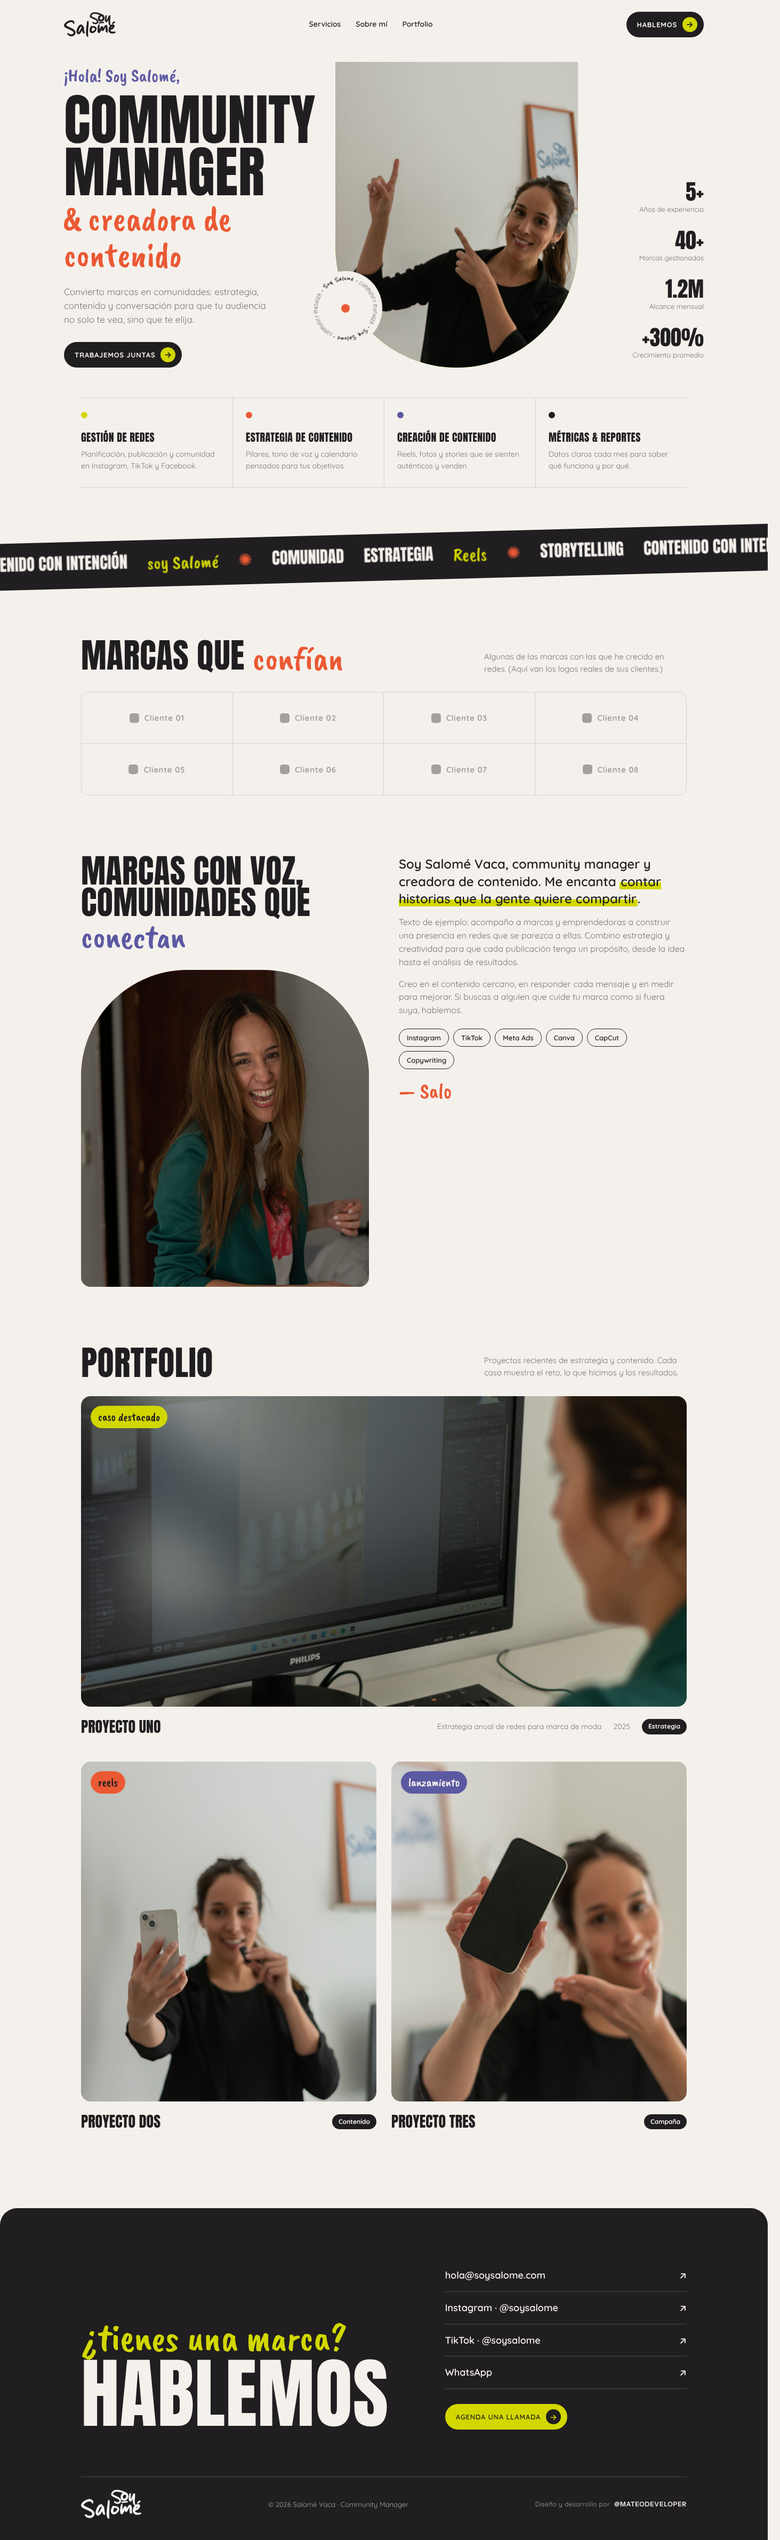
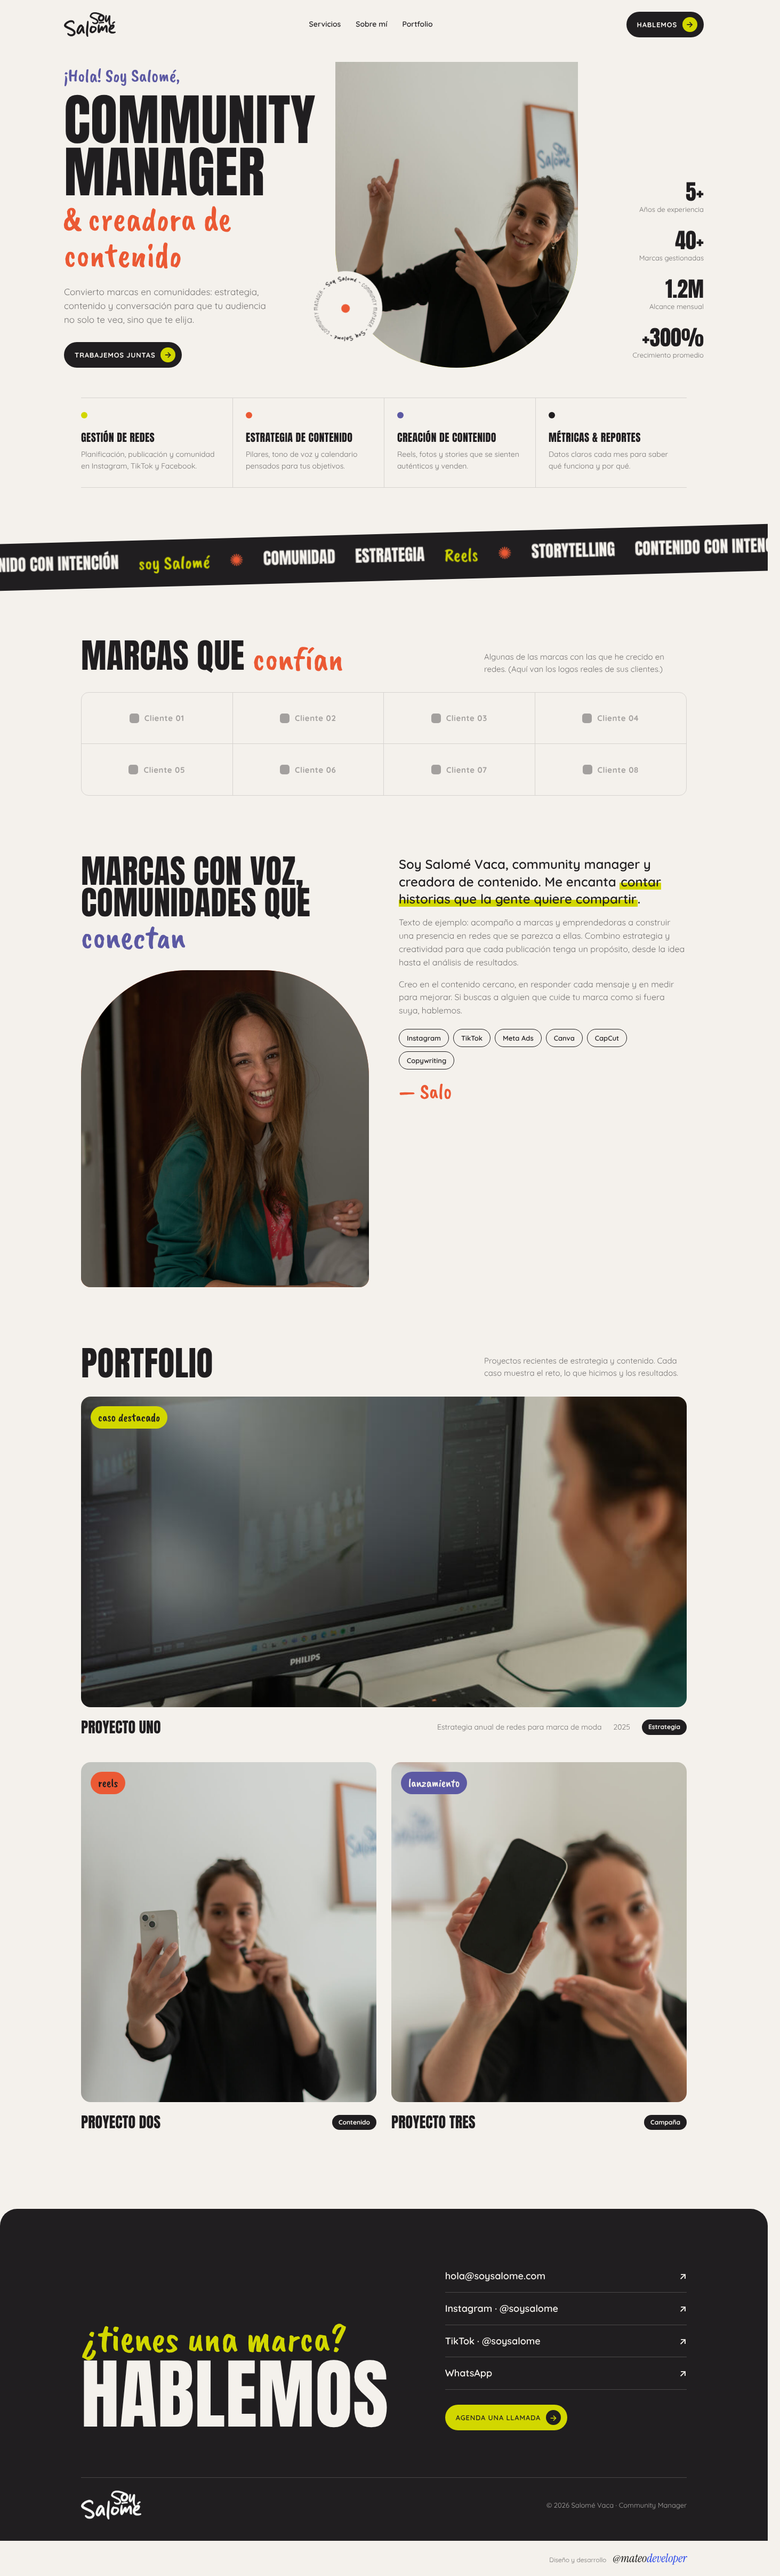
Firma mateodeveloper según manual

Changed region(s): [[0.0, 0.0311, 0.9843, 1.0], [0.8305, 0.0622, 0.892, 0.1554]]

diff --git a/index.html b/index.html
@@ -7,7 +7,7 @@
 <meta name="description" content="Salomé Vaca, community manager y creadora de contenido. Estrategia, contenido y comunidad para marcas.">
 <link rel="preconnect" href="https://fonts.googleapis.com">
 <link rel="preconnect" href="https://fonts.gstatic.com" crossorigin>
-<link href="https://fonts.googleapis.com/css2?family=Anton&family=Caveat+Brush&family=Quicksand:wght@400;500;600;700&family=Instrument+Sans:wght@600&display=swap" rel="stylesheet">
+<link href="https://fonts.googleapis.com/css2?family=Anton&family=Caveat+Brush&family=Quicksand:wght@400;500;600;700&family=Instrument+Serif:ital@1&display=swap" rel="stylesheet">
 <style>
   /* Colores del manual de marca */
   :root{
@@ -126,10 +126,15 @@
   .contacto .pill__dot{background:var(--negro);color:var(--lima)}
   .pie{display:flex;justify-content:space-between;align-items:center;margin-top:88px;padding-top:24px;border-top:1px solid rgba(244,241,236,.2);font-size:13px;color:rgba(244,241,236,.6)}
   .pie img{height:54px;filter:invert(1) brightness(1.1)}
-  .dev{font-size:12px;letter-spacing:.04em;color:rgba(244,241,236,.6);transition:color .2s}
-  /* Firma del desarrollador: versión etiqueta de su manual (Instrument Sans 600, mayúsculas, +6% tracking) para fondo oscuro */
-  .dev b{font-family:'Instrument Sans',system-ui,sans-serif;font-weight:600;text-transform:uppercase;letter-spacing:.06em;color:var(--crema);margin-left:4px}
-  .dev:hover,.dev:hover b{color:var(--lima)}
+  /* Firma del desarrollador (manual @mateodeveloper): Instrument Serif itálica, minúscula,
+     "@mateo" en tinta y "developer" en cobalto, sobre fondo claro, abajo a la derecha.
+     Sin sombras, contornos ni otros colores. */
+  .creditos{background:var(--crema)}
+  .creditos__in{display:flex;justify-content:flex-end;align-items:baseline;gap:12px;padding-top:18px;padding-bottom:18px}
+  .creditos__in>span{font-size:12px;color:var(--suave)}
+  .firma-dev{font-family:'Instrument Serif',Georgia,serif;font-style:italic;font-weight:400;font-size:22px;line-height:1;color:#141413;text-transform:none;letter-spacing:0;padding:4px 0}
+  .firma-dev span{color:#1F3FE9}
+  .firma-dev:hover{text-decoration:underline;text-decoration-thickness:1px;text-underline-offset:4px}
 
   /* RESPONSIVE */
   @media (max-width:980px){
@@ -166,6 +171,7 @@
     .cinta__in{font-size:22px}
     main section.wrap{margin-top:80px}
     .pie{flex-direction:column;gap:16px;text-align:center}
+    .creditos__in{justify-content:center}
   }
   @media (prefers-reduced-motion:reduce){.sello,.cinta__in{animation:none}}
 </style>
@@ -288,10 +294,17 @@
     <div class="pie">
       <img src="img/logo-soy-salome.png" alt="Soy Salomé">
       <span>© 2026 Salomé Vaca · Community Manager</span>
-      <a class="dev" href="https://instagram.com/mateodeveloper" target="_blank" rel="noopener" aria-label="Diseño y desarrollo por @mateodeveloper en Instagram">Diseño y desarrollo por <b>@mateodeveloper</b></a>
     </div>
   </div>
 </footer>
+
+<!-- Créditos: firma principal de @mateodeveloper sobre fondo claro, abajo a la derecha (según su manual) -->
+<div class="creditos">
+  <div class="wrap creditos__in">
+    <span>Diseño y desarrollo</span>
+    <a class="firma-dev" href="https://instagram.com/mateodeveloper" target="_blank" rel="noopener" aria-label="@mateodeveloper en Instagram">@mateo<span>developer</span></a>
+  </div>
+</div>
 
 </body>
 </html>
